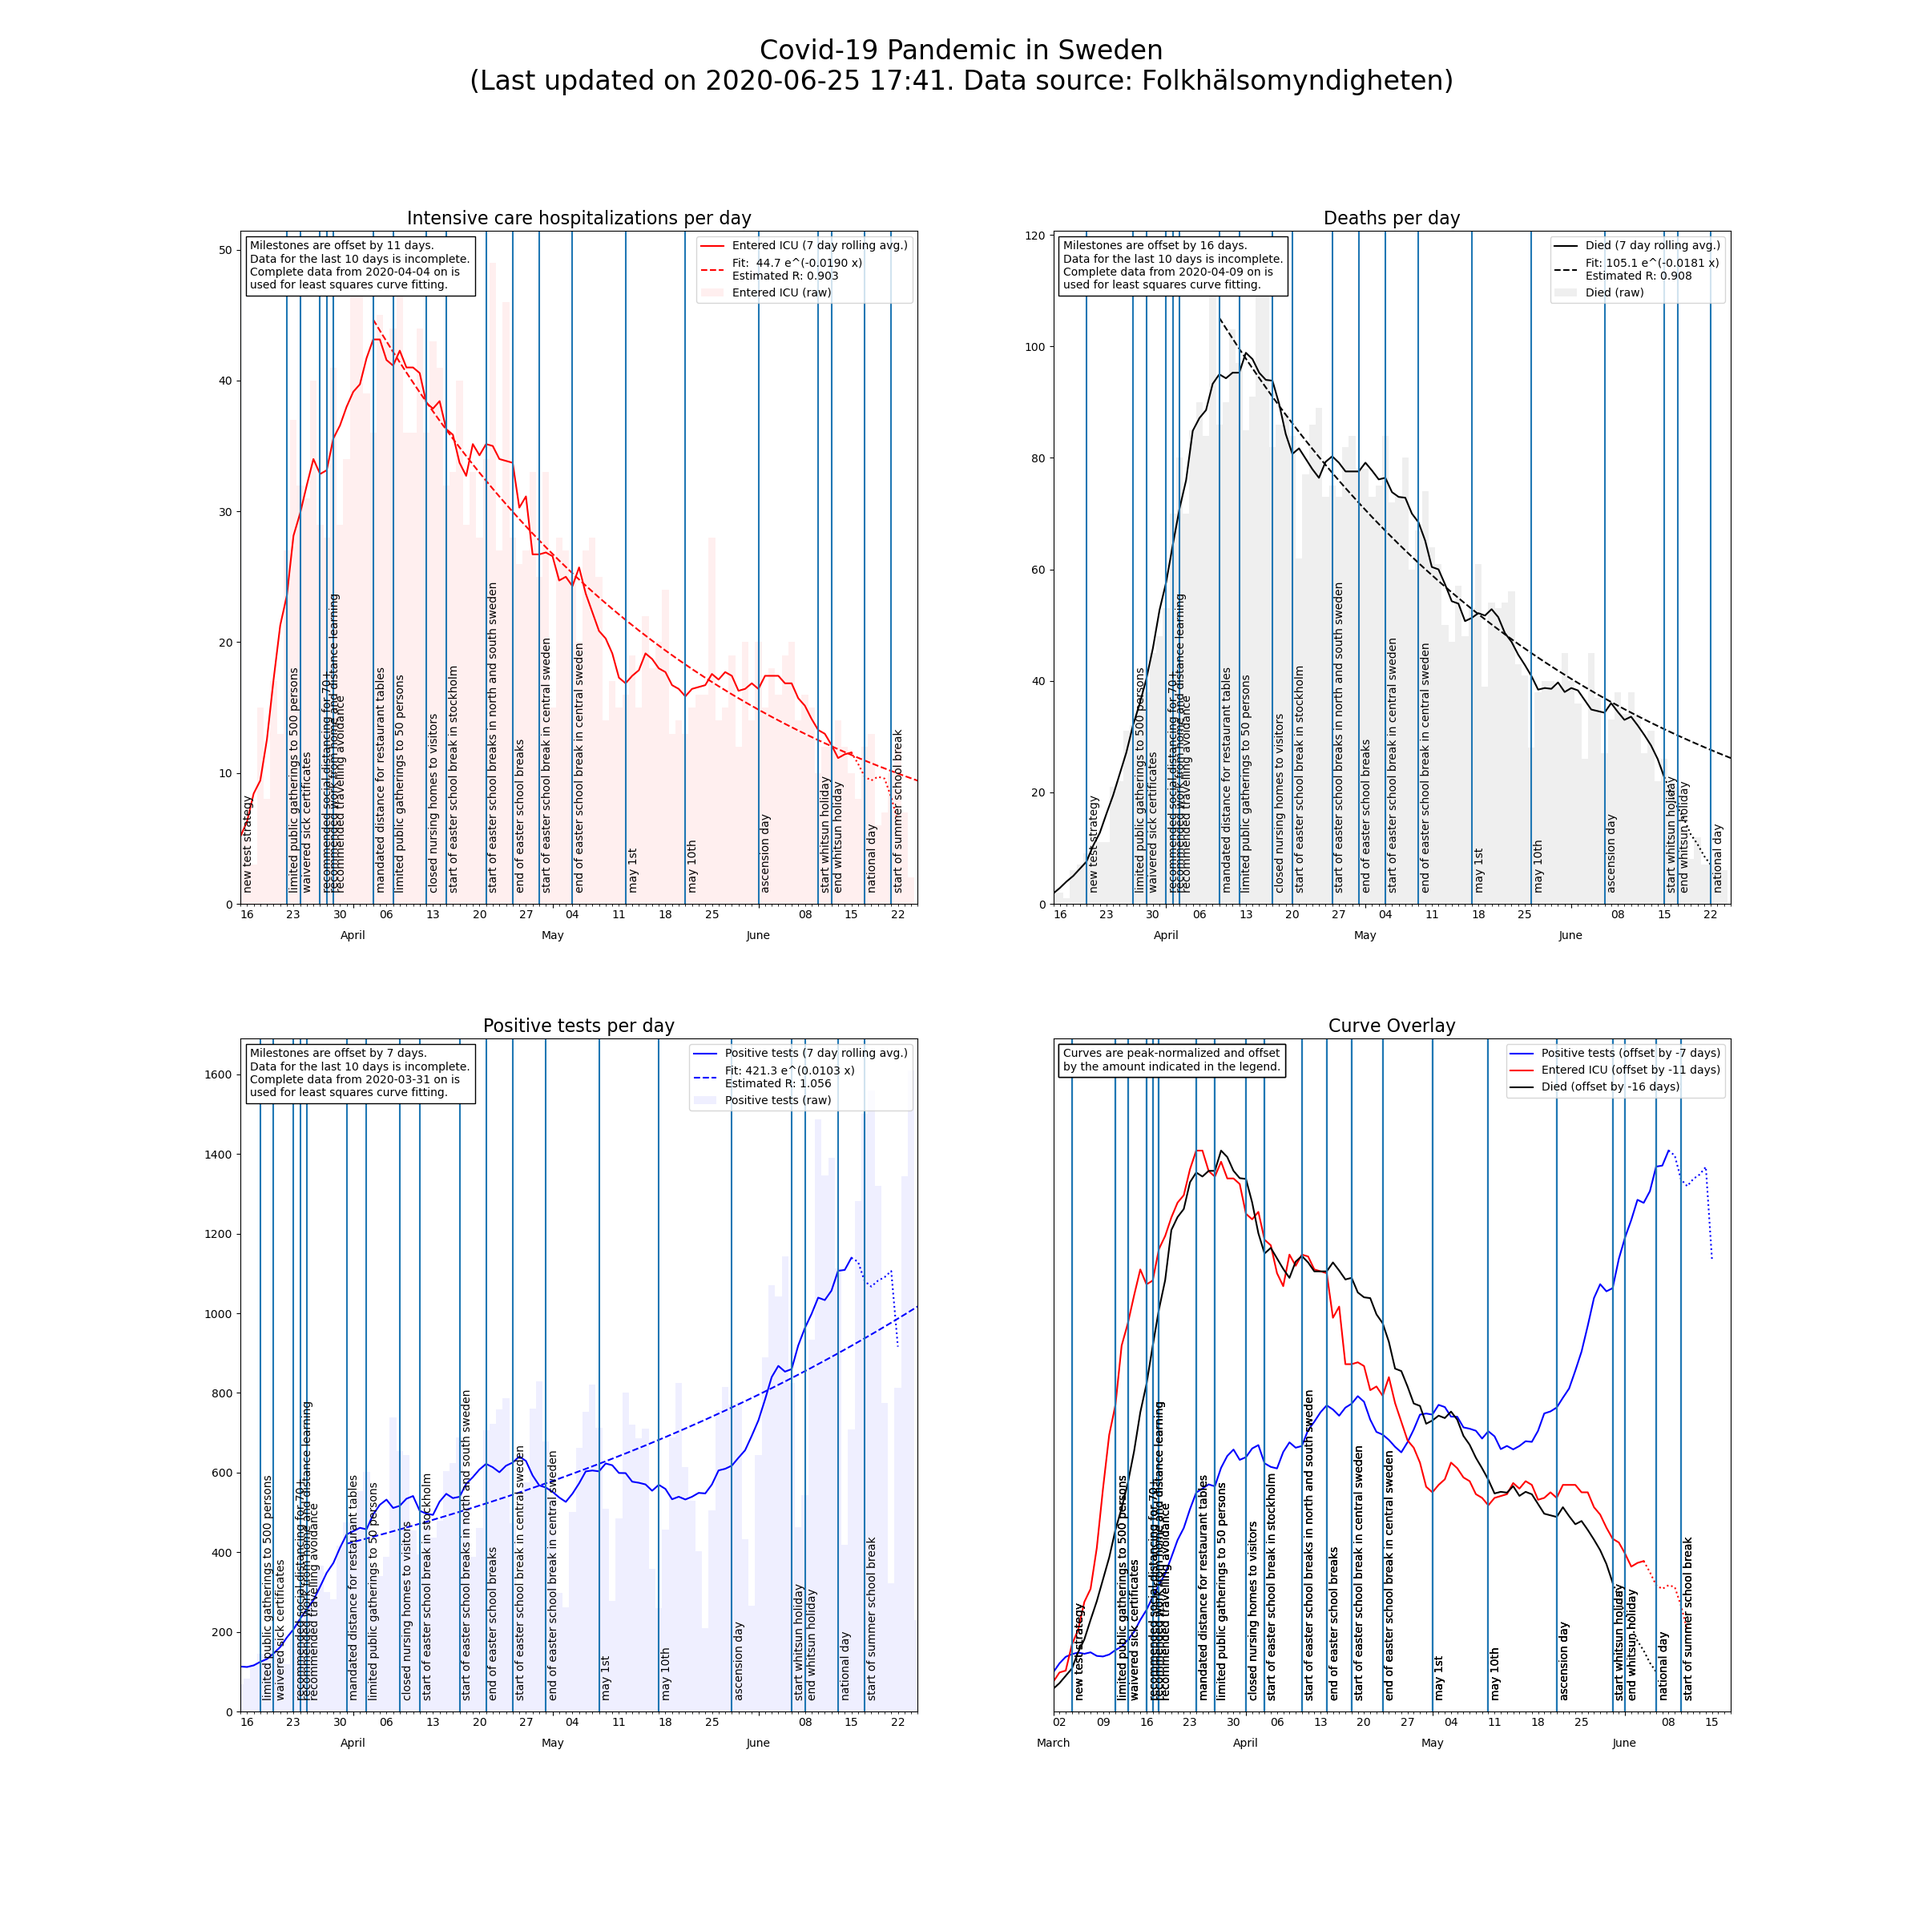
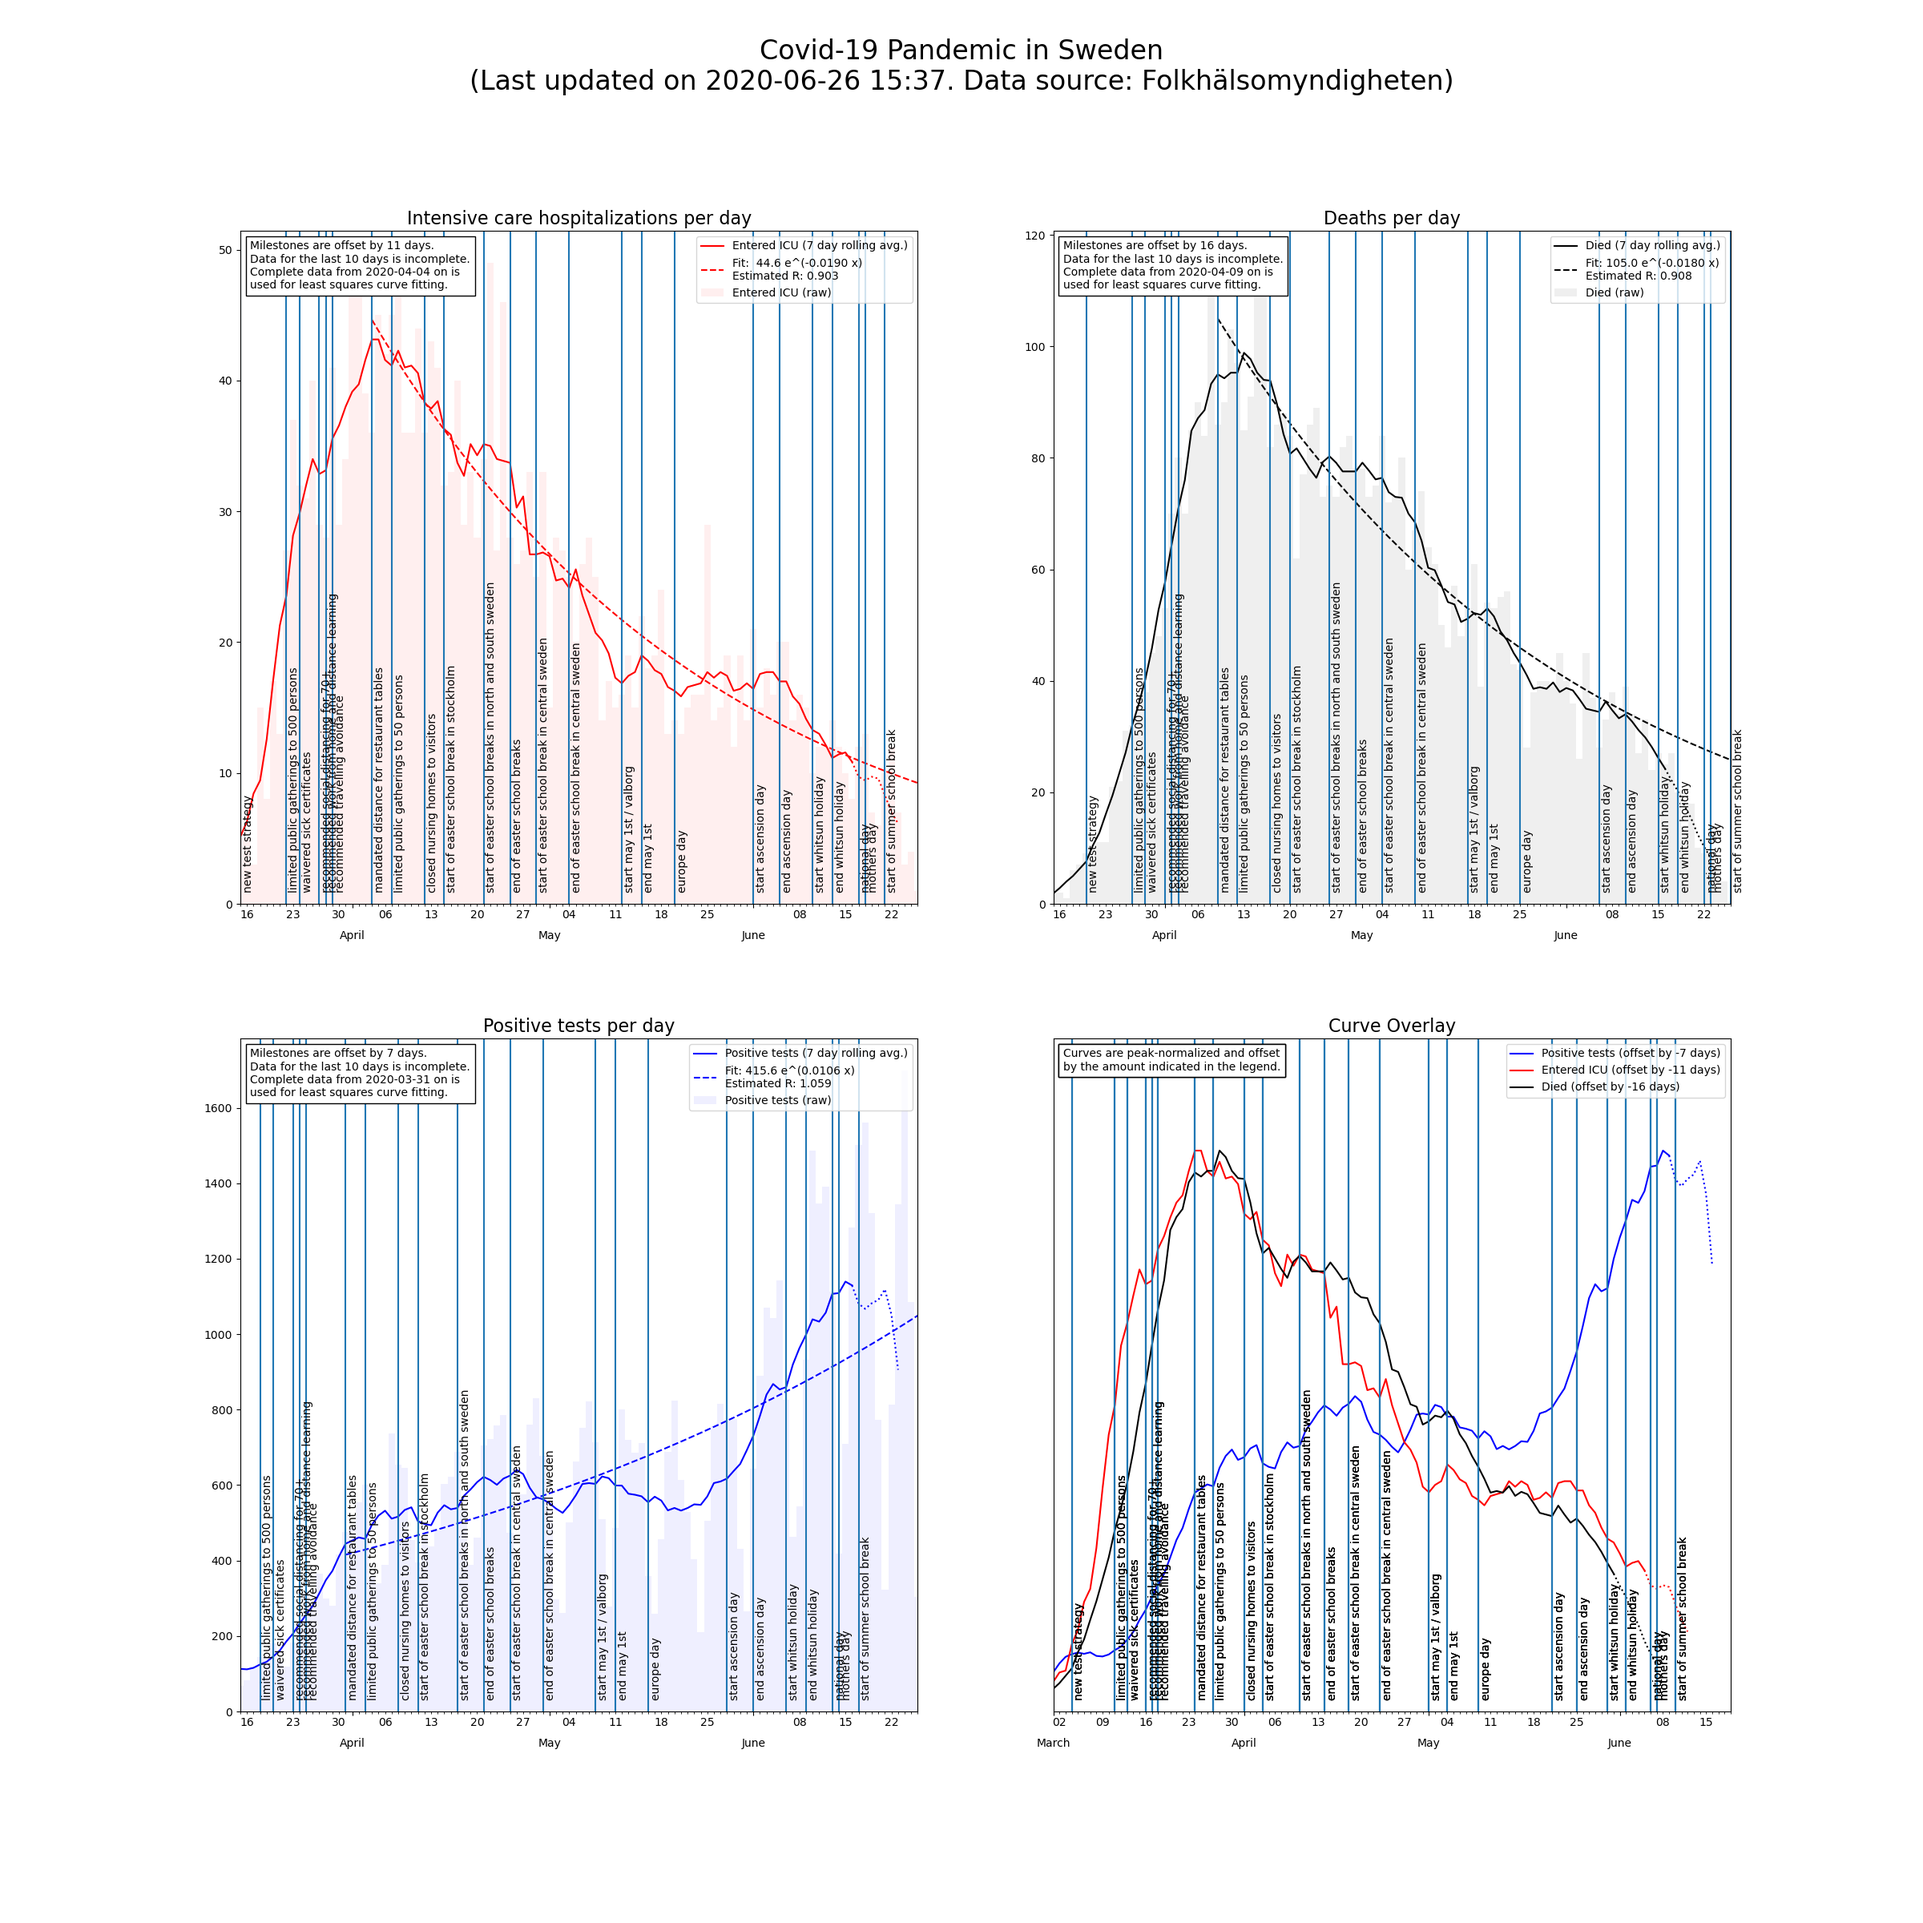
Update.

diff --git a/sweden.py b/sweden.py
@@ -2,16 +2,25 @@
 
 import collections
 import datetime
+import math
 import operator
 
 import numpy as np
 import pandas as pd
 import requests
 import scipy.optimize
+import scipy.stats
 import matplotlib
 import matplotlib.pyplot as plt
 import matplotlib.dates as pltdates
 from matplotlib.offsetbox import AnchoredText
+
+PLOT_COLUMNS = 2
+DECONVOLVE = False
+if DECONVOLVE:
+    import deconvolution
+    PLOT_COLUMNS = 3
+
 
 ################################################################################
 # tweakable parameters
@@ -23,6 +32,7 @@ from matplotlib.offsetbox import AnchoredText
 # color: plot color
 # json: name of attribute in json data
 # plot: no. of plot in axes(2, 2)
+# roll: smooth data by rolling average over X days
 # offset: no. of days to shift the milestones
 
 PLOTS = collections.OrderedDict (
@@ -32,6 +42,7 @@ PLOTS = collections.OrderedDict (
         'color'  : '#0000ff',
         'json'   : 'Totalt_antal_fall',
         'plot'   : 3,
+        'roll'   : 7,
         'offset' : 7, # days from infection to positive test, mostly guessed
                       # Reporting delay estimated to be 7-8 days (See: Table 1):
                       # https://www.stablab.stat.uni-muenchen.de/_assets/docs/nowcasting_covid19_bavaria.pdf
@@ -42,8 +53,9 @@ PLOTS = collections.OrderedDict (
         'color'  : '#ff0000',
         'json'   : 'Antal_intensivvardade',
         'plot'   : 1,
+        'roll'   : 7,
         'offset' : 11, # days from infection to icu admission,
-                       # "Days from onset to ICU care: 11,1 (0 - 53,7) (min-max)"
+                       # "Days from onset to ICU care: 11,2 (0 - 53,7) (min-max)"
                        # -- https://www.icuregswe.org/en/data--results/covid-19-in-swedish-intensive-care/
     },
     died = {
@@ -52,7 +64,8 @@ PLOTS = collections.OrderedDict (
         'color'  : '#000000',
         'json'   : 'Antal_avlidna',
         'plot'   : 2,
-        'offset' : 17, # days from infection to death, calculated: 11.5 + 5.1
+        'roll'   : 7,
+        'offset' : 16, # days from infection to death, calculated: 11.5 + 5.1
                        # "symptom to death 11.5 days"
                        # -- https://www.worldometers.info/coronavirus/coronavirus-death-rate/
                        # also confirmed by curve overlay
@@ -91,7 +104,28 @@ MILESTONES = (
     ( pd.to_datetime ('2020-04-18'), 'start of easter school break in central sweden' ),
     ( pd.to_datetime ('2020-04-23'), 'end of easter school break in central sweden' ),
 
-    ( pd.to_datetime ('2020-05-01'), 'may first' ),
+    ( pd.to_datetime ('2020-05-01'), 'start may 1st / valborg' ),
+    ( pd.to_datetime ('2020-05-04'), 'end may 1st' ),
+
+    ( pd.to_datetime ('2020-05-09'), 'europe day' ),
+
+    ( pd.to_datetime ('2020-05-21'), 'start ascension day' ),
+    ( pd.to_datetime ('2020-05-25'), 'end ascension day' ),
+
+    ( pd.to_datetime ('2020-05-30'), 'start whitsun holiday' ),
+    ( pd.to_datetime ('2020-06-02'), 'end whitsun holiday' ),
+
+    ( pd.to_datetime ('2020-06-06'), 'national day' ),
+    ( pd.to_datetime ('2020-06-07'), 'mothers day' ),
+
+    ( pd.to_datetime ('2020-06-10'), 'start of summer school break' ),
+
+    ( pd.to_datetime ('2020-06-26'), 'midsommar' ),
+
+    ( pd.to_datetime ('2020-08-19'), 'end of summer school break' ),
+
+    ( pd.to_datetime ('2020-10-24'), 'start autumn school break in stockholm' ),
+    ( pd.to_datetime ('2020-11-02'), 'end autumn school break in stockholm' ),
 )
 
 # Parameters used to estimate R
@@ -112,7 +146,6 @@ HUMP_DAY        = '2020-03-24' # fit curve starting here
 
 START_DATE      = '2020-03-15' # start date for plots
 UNSTABLE_DAYS   = 10           # ignore the last X days of data because it is unstable
-ROLL_DAYS       = 7            # smooth data by rolling average over X days
 
 # end tweakable parameters
 ################################################################################
@@ -162,10 +195,21 @@ df = pd.DataFrame (
 
 end_date = df.index[-1] - pd.Timedelta (UNSTABLE_DAYS, 'days')
 
-for col in PLOTS:
-    df[(col, 'roll')]     = df[(col, 'raw')].rolling (ROLL_DAYS, center = True).mean ()
+
+for col, data in PLOTS.items ():
+    df[(col, 'roll')]     = df[(col, 'raw')].rolling (data['roll'], center = True).mean ()
     df[(col, 'stable')]   = df.loc[:end_date, (col, 'roll')]
     df[(col, 'unstable')] = df.loc[end_date:, (col, 'roll')]
+
+if DECONVOLVE and 0:
+    signal = df[(col, 'roll')].fillna (0).to_numpy ().astype (np.float)
+    max_signal = signal.max ()
+    signal /= max_signal
+    deconv, psf = deconvolution.richardson_lucy (signal, clip = False)
+    deconv *= max_signal
+    df[(col, 'deconvolved')] = deconv
+    df[(col, 'psf')] = psf
+
 
 def f (x, a, b):
     """ The exponential curve to fit. """
@@ -211,7 +255,7 @@ def set_xticks (ax):
 def plot (field, data):
     """ Plot one curve and annotate it. """
 
-    ax = plt.subplot (2, 2, data['plot'])
+    ax = plt.subplot (2, PLOT_COLUMNS, data['plot'])
     ax.set_title (data['title'], fontsize = 16)
 
     offset = pd.Timedelta (data['offset'], 'days')
@@ -228,7 +272,7 @@ def plot (field, data):
     )
 
     params = [
-        ('stable',   'ff', '-',  data['label'] + ' (7 day rolling avg.)'),
+        ('stable',   'ff', '-',  data['label'] + ' (%d day rolling avg.)' % data['roll']),
         ('unstable', 'ff', ':',  ''),
         ('fit' ,     'ff', '--', 'Fit: %5.1f e^(%5.4f x)\nEstimated R: %5.3f' % (
             popt[0],
@@ -236,7 +280,9 @@ def plot (field, data):
             # See: https://www.ncbi.nlm.nih.gov/pmc/articles/PMC1766383/
             # Section: (c) Delta distributions
             np.exp (popt[1] * MEAN_GENERATION_INTERVAL)
-        ))
+        )),
+        #('deconvolved', 'ff', ':',  ''),
+        #('psf',         'ff', ':',  ''),
     ]
     for level2, alpha, style, labell in params:
         ax.plot (
@@ -267,7 +313,7 @@ used for least squares curve fitting.""".strip () % (offset.days, UNSTABLE_DAYS,
 # start plotting #
 ##################
 
-fig, axs = plt.subplots (2, 2)
+fig, axs = plt.subplots (2, PLOT_COLUMNS)
 fig.set_size_inches (24, 24)
 
 fig.suptitle ('Covid-19 Pandemic in Sweden\n(Last updated on %s. Data source: Folkhälsomyndigheten)'
@@ -281,13 +327,21 @@ for k, v in PLOTS.items ():
 
 # the special plot: overlay of all three curves
 
-ax = plt.subplot (2, 2, 4)
+ax = plt.subplot (2, PLOT_COLUMNS, 4)
 ax.set_title ('Curve Overlay', fontsize = 16)
+plots = [ax]
+fields = 'stable', 'unstable'
+
+if DECONVOLVE:
+    ax2 = plt.subplot (2, PLOT_COLUMNS, 5)
+    ax2.set_title ('Deconvolved Curve Overlay', fontsize = 16)
+    plots.append (ax2)
+    fields.append ('deconvolved')
 
 for field, data in PLOTS.items ():
     # normalize curve maxima to 1 and offset curves
     col_max = df[(field, 'roll')].max ()
-    for level2 in 'stable', 'unstable':
+    for level2 in fields:
         col = (field, level2)
         df.loc[:, col] = df[col] / col_max
         df.loc[:, col] = df[col].shift (-data['offset'])
@@ -304,21 +358,47 @@ for field, data in PLOTS.items ():
         color = data['color'],
         linestyle = ':'
     )
+    if DECONVOLVE and field != 'pos':
+        ax2.plot (
+            df.index,
+            df[(field, 'deconvolved')],
+            color = data['color'],
+            linestyle = '-',
+            label = data['label'] + ' (offset by %d days)' % -data['offset']
+        )
 
-ax.legend (loc = 'upper right')
-ax.set_ylim (0, 1.2)
-end_date = df.index[-1] - pd.Timedelta (PLOTS['pos']['offset'], 'days')
-ax.set_xlim (pd.to_datetime ('2020-03-01'), end_date)
-ax.set_yticks ([], minor = True)
-ax.set_yticks ([], minor = False)
+    for a in plots:
+        a.legend (loc = 'upper right')
+        a.set_ylim (0, 1.2)
+        end_date = df.index[-1] - pd.Timedelta (PLOTS['pos']['offset'], 'days')
+        a.set_xlim (pd.to_datetime ('2020-03-01'), end_date)
+        a.set_yticks ([], minor = True)
+        a.set_yticks ([], minor = False)
 
-set_xticks (ax)
-annotate_milestones (ax, pd.Timedelta (0, 'days'))
+        set_xticks (a)
 
-note = AnchoredText ("""
+        annotate_milestones (a, pd.Timedelta (0, 'days'))
+
+    note = AnchoredText ("""
 Curves are peak-normalized and offset
 by the amount indicated in the legend.""".strip (), loc = 'upper left')
-ax.add_artist (note)
+    ax.add_artist (note)
+
+    # plot recovered point spread functions
+
+if DECONVOLVE:
+    ax = plt.subplot (2, PLOT_COLUMNS, 6)
+    ax.set_title ('Recovered PSFs', fontsize = 16)
+
+    for field, data in PLOTS.items ():
+        if field != 'pos':
+            ax.plot (
+                df.index,
+                df[(field, 'psf')],
+                color = data['color'],
+                linestyle = '-'
+            )
+
 
 # done
 plt.savefig ('docs/sweden.png')

diff --git a/README.rst b/README.rst
@@ -3,9 +3,16 @@
 Covid-19 Pandemic in Sweden
 ===========================
 
-A data analysis with Python pandas.
+A data analysis of the Covid-19 pandemic in Sweden with Python and Pandas.
 
-This analysis has only two main parameters:
+Method: plot the hospitalization and death rate along with
+Public Health Agency responses shifted ahead in time.
+Use eyeballing to learn the facts.
+Fit an exponential curve to the cases following the peak
+of the pandemic to estimate the current reproduction rate R.
+
+The only two parameters used in this analysis are the time shifts applied to the
+Public Health Agency responses:
 
 - the mean number of days between infection and ICU admission: 11 days [ICUREG2020]_,
 
@@ -14,8 +21,8 @@ This analysis has only two main parameters:
 These two parameters are also confirmed by the overlay of two curves.
 
 Data source: Folkhälsomyndigheten [1]_.
-Milestones: Wikipedia [2]_.
-Holidays: Edarabia [3]_.
+Response milestones: Wikipedia [2]_.
+School Holidays: Edarabia [3]_.
 
 
 Results
@@ -48,7 +55,7 @@ There are way too many different ways to calculate R to make R a meaningful numb
    :width: 100%
    :align: center
 
-Big image: https://raw.githubusercontent.com/MarcelloPerathoner/covid-19/master/docs/sweden.png
+The big picture: https://raw.githubusercontent.com/MarcelloPerathoner/covid-19/master/docs/sweden.png
 
 
 Footnotes / Bibliography
